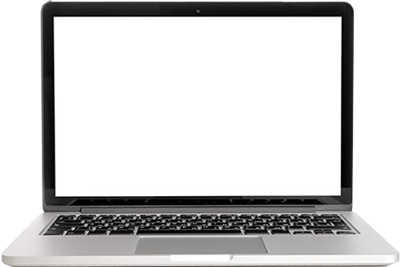
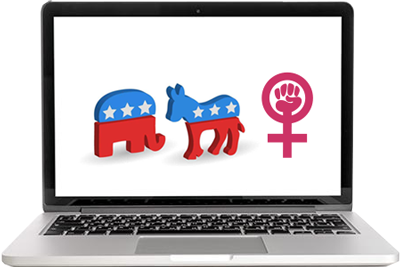
presentation animation complete!

Changed region(s): [[0.21, 0.2996, 0.63, 0.6292], [0.63, 0.2697, 0.78, 0.5993]]

diff --git a/animation.html b/animation.html
@@ -56,7 +56,7 @@
 <script>
 
 var play1 = function(){
-	   
+
     var half=(($( document ).width())/2);
         
         $("#hillarymouth").
@@ -264,7 +264,7 @@ var play1 = function(){
 				"left":half+20,
 			},300, "linear").
     animate({
-        "left":half-50, bottom: 10,
+        "left":half-50, bottom: 50,
      },400).
     animate({
         "left":half+50, bottom: -50,
@@ -470,12 +470,10 @@ var play2 = function(){
 			animate({
 				"bottom":"0px", "left":"0px"
 			}, 200, function(){
-                $("#hillarybase img").attr("src", "img/animate-assets/fire.gif");
+                $("#hillarybase img").delay(200).attr("src", "img/animate-assets/fire.gif");
                 $("#hillarymouth").animate({"opacity":"0",},10);    
-                $("#berniebase img").attr("src", "img/animate-assets/fire.gif");
+                $("#berniebase img").delay(200).attr("src", "img/animate-assets/fire.gif");
                 $("#berniemouth").animate({"opacity":"0",},10);
-                $("#trumpbase img").attr("src", "img/animate-assets/fire.gif");
-                $("#trumphead").animate({"opacity":"0",},10);
 			});
 
 }
@@ -484,31 +482,59 @@ var play3 = function(){
 
      var half=(($( document ).width())/2);
     
-    $("#laminate").
+    $("#ducksticker").
         animate({
             "opacity":"1",
-        }, 2000, function(){ 
+        }, 4000, function(){ 
         $("#paper").
         animate({
             "bottom":"80px", 
         }, 500, "swing");
-        $("#laminate").
+        $("#laminate").animate({
+			"opacity":"1", "bottom":"80px",
+		},2000);
+        $("#ducksticker").
         animate({
             "bottom":"80px", 
         }, 500, "swing");
-        $("#printerlip").animate({
+        $("#printerlip").delay(100).animate({
 			"opacity":"0",
 		},500);
-        $("#scissors").animate({
+        $("#printertop").delay(100).animate({
+			"opacity":"0",
+		},500);
+        $("#scissors").delay(2500).animate({
 			"opacity":"1", 
-        },500);
-        $("#printertop").animate({
-			"opacity":"0",
-		},500);
-        $("#laminate").animate({
-			"opacity":"1",
-            },500);
-        });
+        },500).animate({
+			"left":"-200px", 
+        },2500);
+    
+    $(document).delay(300).queue(function(){
+                $("#paper img").attr("src", "img/animate-assets/computer.png");
+                    $( this ).dequeue();},500); 
+        $(document).delay(1000).queue(function(){
+                $("#paper img").attr("src", "img/animate-assets/bottle.png");
+                    $( this ).dequeue();},500); 
+        $(document).delay(1000).queue(function(){
+                $("#paper img").attr("src", "img/animate-assets/window.png");
+                    $( this ).dequeue();},500); 
+            
+                });
+    
+    $(document).delay(9500).queue(function(){
+			 $(function(){
+        $(".nouns").typed({
+                strings: ["Laptops.", "Water bottles.", "Windows.", "And more!"],
+                typeSpeed: 5,
+                loop: false,
+                showCursor: false,
+                backDelay: 500,
+                backSpeed: 2,
+
+      }); $( this ).dequeue();});});
+        
+        
+    
     
 }
 
@@ -519,21 +545,65 @@ $(document).ready(function(){
         $("#sound1").on( "ended", function(){
             $("#trumphead img").attr("src", "img/animate-assets/explosion.gif");
             $("#trumphead").css("bottom","200px").css("left","20px");
-            $("#trumpbase img").delay(2000).attr("src", "img/animate-assets/fire.gif");
-            $("#trumphead").delay(2000).animate({"opacity":"0",},10);
+            $("#trumpbase img").delay(1000).attr("src", "img/animate-assets/fire.gif");
+            $("#trumphead").delay(1000).animate({"opacity":"0",},10);
             $("#sound2")[0].play();
             play2();
+            $(document).delay(5000).queue(function(){
+			 $(function(){
+              $(".element").typed({
+                strings: ["We put sweet spins ^500 on sour situations."],
+                typeSpeed: 40,
+                loop: false,
+                showCursor: false,
+                backDelay: 800,
+                backSpeed: 10,
+
+      });
+                 $( this ).dequeue();
+			});
+    });
+
             
         });
         $("#sound2").on( "ended", function(){
             $("#politics").animate({
 			"opacity":"0",
 		},500);
+            $(".element").animate({
+			"opacity":"0",
+		},500);
             $("#sound3")[0].play();
-            $("#process").animate({
+            $("#laptop").animate({
 			"opacity":"1",
 		},500);
+            $(document).delay(2000).queue(function(){
+			$("#laptop img").attr("src", "img/animate-assets/stickerlaptop.png");
+                $( this ).dequeue();
+			});
+            $("#laptop").delay(3000).animate({
+			"opacity":"0",},500).queue(function(){
+            $("#process").animate({
+			"opacity":"1",
+		},500)
+			
+                $( this ).dequeue();
+			}).delay(4000).queue(function(){
+			$("#scissors").animate({
+			"opacity":"0",
+		},500);
+                $( this ).dequeue();
+			}).delay(2000).queue(function(){
+			$("#laminate").animate({
+			"opacity":"0",
+		},500);
+                $( this ).dequeue();
+			
+			});
             play3();
+            
+            
+            
         });
         $("#sound3").on( "ended", function(){
             
@@ -548,21 +618,15 @@ $(document).ready(function(){
 			"opacity":"0",
             
 		},500);
+            $("#laptop").animate({
+			"opacity":"0",
+            
+		},500);
+            $(".nouns").animate({
+			"opacity":"0",
+		},500);
         });
     
-      $(function(){
-      $(".element").typed({
-        strings: ["B***ch, Please", "Dump Trump!", "Duck Frump.", "She persisted.", "Alternative Trump?"],
-        typeSpeed: 30,
-        startDelay: 400,
-        loop: true,
-        backDelay: 800,
-        backSpeed: 10,
-
-
-      });
-    });
-
 });
     
 
@@ -597,15 +661,17 @@ $(document).ready(function(){
 <style>
 
 body{
-        background-color: #98dbd9;458989
+        background-color: #98dbd9;
         background-position: bottom;
         font-family: 'Nunito', sans-serif;
     }
     
-#hillarybase, #hillarymouth, #berniebase, #berniemouth, #trumpbase, #trumphead, #dump, #carrot, #persist, #dog, #duck, #printerlip, #printertop, #ducksticker, #laminate, #scissors, #paper{
+#hillarybase, #hillarymouth, #berniebase, #berniemouth, #trumpbase, #trumphead, #dump, #carrot, #persist, #dog, #duck, #printerlip, #printertop, #ducksticker, #laminate, #scissors, #paper, #laptop{
 	position: absolute;	
     bottom:0px;
 }
+    
+
 
 #hillarybase {
     right:0px;
@@ -687,47 +753,73 @@ body{
     
     }
     
-#textbubble {
-	position:fixed;
-	bottom:0px;
-	text-align:center;
-	width: 100%;
-	margin-bottom: 12px;
-    z-index: 20;
-}
+
+
     
     #process, #scissors{
         opacity:0;
     }
     
     
-    #printertop, #printerlip, #ducksticker, #laminate,#paper, #scissors{
+    #printertop, #printerlip, #ducksticker, #laminate,#paper, #scissors, #laptop{
         width: 100%;
         margin:auto;
         bottom: 180px;
     }
     
+    #scissors{
+        left: 200px;
+    }
     #stickergroup, #laminate, #paper, #ducksticker{
-        left: 30px;
+
         bottom: 180px;
     }
+    
+    #laptop{
+        opacity:0;
+    }
+    
+    #textbubble {
+	position:fixed;
+	bottom:470px;
+	text-align:center;
+	width: 100%;
+    z-index: 20;
+}
+    
+    
+    .element, .nouns{
+        font-size: 35pt;
+        width: 100%;
+        height: 100%;
+        margin: auto;
+        text-align: center;
+        
+    }
+    
     
     #form{
         opacity:0;
         width: 100%;
-        margin-top: 100px;
+        margin-top: 80px;
+        z-index: 500;
+        position: absolute;
+        left: 0px;
+        bottom: 0px;
     }
 </style>
 </head>
     
 <body>
     
-<div id="politics">
+
  <div id="textbubble">
-     <h2><span class="element" style="color: #ff7d31;"></span></h2>
-                
+     <h1><span class="element" style="color: #458989;"></span></h1>
+     <h1><span class="nouns" style="color: #458989;"></span></h1>
+                           
             </div> <!-- close intro -->
 
+<div id="politics">
 <div id="hillarybase">
 	<img src="img/animate-assets/hillarybase.png" />
 </div>
@@ -773,7 +865,12 @@ body{
 	<img src="img/stickers/persist.png" />
 </div>
     
+<div id="laptop">
+	<img src="img/animate-assets/laptop.png" />
+</div>
+    
 <div id="process">
+
 
 <div id="printerlip">
 	<img src="img/animate-assets/printerbottom.png" />
@@ -802,6 +899,7 @@ body{
 	<img src="img/animate-assets/cut.gif" />
 </div>
 
+    
 
 <iframe id="form" src="https://docs.google.com/forms/d/e/1FAIpQLSeJy3K8-rSP_K7pvD3SoSwD6IlTHxXOPsfWlfwfiDko3nanOQ/viewform?embedded=true" width="760" height="500" frameborder="0" marginheight="0" marginwidth="0" z-index="200">Loading...</iframe>
 <audio id="sound1">
